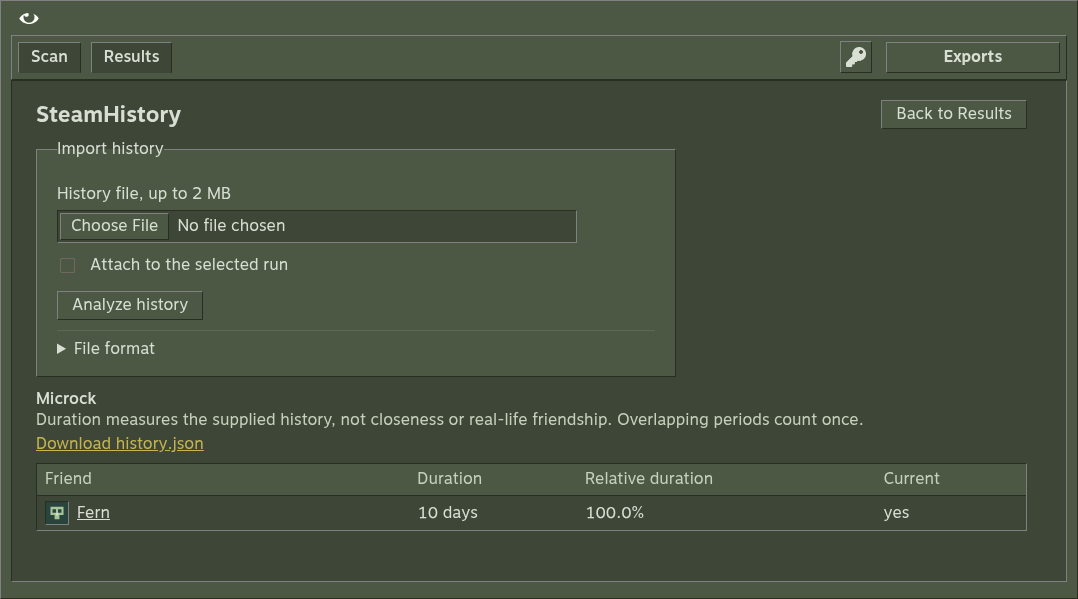
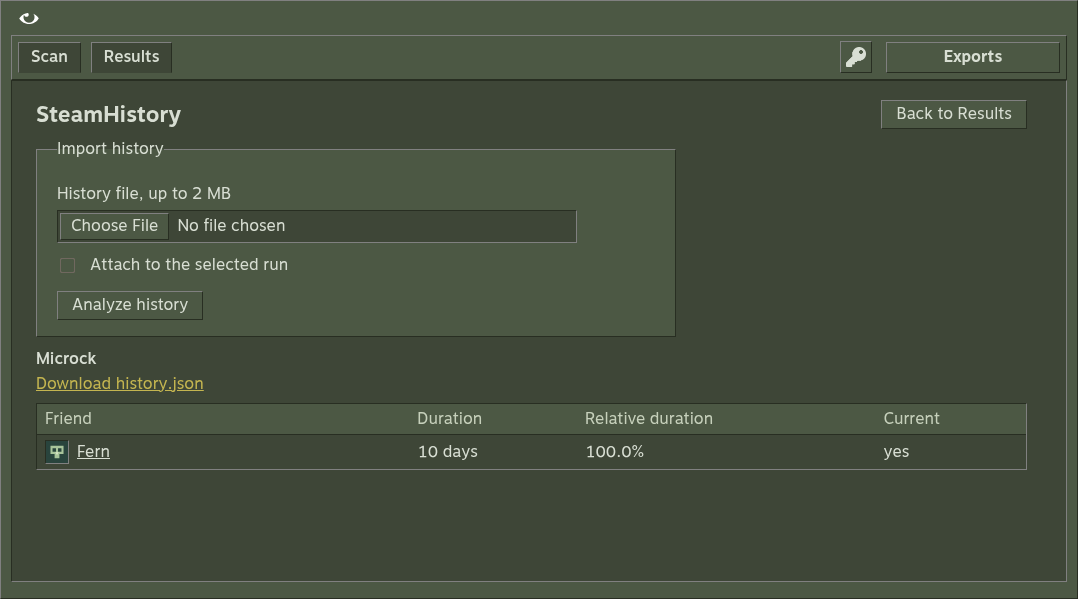
fix(ui): remove helper clutter and disclosure sections

diff --git a/ui/index.html b/ui/index.html
@@ -61,6 +61,7 @@
                 <label class="check"><input id="games" type="checkbox">Link via shared games</label>
               </div>
             </div>
+            <button id="open-scan-ranking" type="button" aria-haspopup="dialog">Ranking options</button>
             <button id="apply-settings" type="button" title="Save these settings as the default profile">Apply</button>
           </fieldset>
           <div class="panel mode-output">
@@ -74,19 +75,9 @@
             </fieldset>
             <section class="output-files" aria-label="Output files">
               <h2>Output</h2>
-              <p id="output-owner" class="output-owner"></p>
-              <div id="output-tree" class="output-tree" aria-describedby="output-owner"></div>
+              <div id="output-tree" class="output-tree"></div>
             </section>
           </div>
-      <details class="panel ranking-settings advanced-scan"><summary>Advanced scan options</summary>
-        <div class="weights">
-          <label>Hub percentile<input id="hub" type="number" min="0.5" max="1" step="0.001" value="0.99" required></label>
-          <label>Mutual weight<input id="mutualWeight" type="number" min="0" max="100" step="0.1" value="1" required></label>
-          <label>Jaccard weight<input id="jaccardWeight" type="number" min="0" max="100" step="0.1" value="1" required></label>
-          <label>Group weight<input id="groupWeight" type="number" min="0" max="100" step="0.1" value="0.5" required></label>
-          <label>Game weight<input id="gameWeight" type="number" min="0" max="100" step="0.1" value="0.5" required></label>
-        </div>
-      </details>
         </form>
         <aside class="rail" aria-label="Recent runs and saved settings">
           <div class="panel rail-recent"><div id="recent" aria-label="Recent runs"></div></div>
@@ -130,6 +121,26 @@
       <div class="dialog-actions"><button type="button" data-close="load-dialog">Cancel</button><button id="load-profile" type="button">Load</button></div>
     </dialog>
 
+    <dialog id="scan-ranking-dialog" aria-labelledby="scan-ranking-heading">
+      <form id="scan-ranking-form">
+        <h2 id="scan-ranking-heading">Ranking options</h2>
+        <div class="weights">
+          <label>Hub percentile<input id="hub" type="number" min="0.5" max="1" step="0.001" value="0.99" required></label>
+          <label>Mutual weight<input id="mutualWeight" type="number" min="0" max="100" step="0.1" value="1" required></label>
+          <label>Jaccard weight<input id="jaccardWeight" type="number" min="0" max="100" step="0.1" value="1" required></label>
+          <label>Group weight<input id="groupWeight" type="number" min="0" max="100" step="0.1" value="0.5" required></label>
+          <label>Game weight<input id="gameWeight" type="number" min="0" max="100" step="0.1" value="0.5" required></label>
+        </div>
+        <div class="dialog-actions"><button type="submit">Done</button></div>
+      </form>
+    </dialog>
+
+    <dialog id="run-info-dialog" aria-labelledby="run-info-heading">
+      <h2 id="run-info-heading">Run info</h2>
+      <p id="report-details"></p><div id="warnings"></div>
+      <div class="dialog-actions"><button type="button" data-close="run-info-dialog">Close</button></div>
+    </dialog>
+
     <section id="results-screen" class="screen" aria-label="Scan results" hidden>
       <div class="results-actions"><button id="toggle-runs" type="button" aria-expanded="true" aria-controls="run-library">Saved runs</button><button type="button" data-screen="history">Import history</button><button type="button" data-screen="scan">New scan</button></div>
       <section id="run-library" class="panel" aria-label="Saved runs">
@@ -147,25 +158,25 @@
         <div class="panel report-heading">
           <div class="report-identity"><img id="report-avatar" class="profile-avatar" src="/placeholder.jpg" width="40" height="40" alt="" referrerpolicy="no-referrer"><div><h1 id="report-name"></h1><a id="report-profile" target="_blank" rel="noreferrer"></a></div></div>
           <p id="report-status"></p>
+          <button id="open-run-info" type="button" aria-haspopup="dialog">Run info</button>
           <button id="resume-button" type="button" hidden>Resume run</button>
         </div>
         <dl id="coverage"></dl>
         <p id="coverage-warning" class="coverage-warning" role="status" hidden></p>
         <p id="report-error" role="alert" hidden></p>
-        <details id="report-notes"><summary>Run details</summary><p id="report-details"></p><div id="warnings"></div></details>
         <nav class="tabs" aria-label="Report views">
           <button type="button" data-view="friends" aria-current="page">Friends</button>
           <button type="button" data-view="network">Network</button>
           <button type="button" data-view="locations">Locations</button>
           <button type="button" data-view="exports">Exports</button>
+          <button type="button" data-view="ranking">Ranking</button>
           <button id="open-history" type="button" hidden>Attached history</button>
         </nav>
         <div class="report-workspace"><div class="report-views">
         <section id="friends-view" class="view">
           <div class="section-line"><h2>Ranked friends</h2><label class="search-label">Filter friends<input id="friend-search" type="search" placeholder="Name or Steam ID"></label></div>
-          <div class="table-wrap"><table><thead><tr><th scope="col">Friend</th><th scope="col">Evidence</th><th scope="col">Mutuals</th><th scope="col">Jaccard</th><th scope="col">Groups</th><th scope="col">Games</th><th scope="col">Friend list</th></tr></thead><tbody id="friend-rows"></tbody></table></div>
+          <div class="table-wrap"><table><thead><tr><th scope="col">Friend</th><th scope="col" title="Relative network evidence, not a friendship probability">Evidence</th><th scope="col">Mutuals</th><th scope="col">Jaccard</th><th scope="col">Groups</th><th scope="col">Games</th><th scope="col">Friend list</th></tr></thead><tbody id="friend-rows"></tbody></table></div>
           <p id="friend-empty" class="hint" hidden>No friends match this filter.</p>
-          <details><summary>About scores</summary><p class="hint">Relative evidence, not a friendship probability. Missing signals stay unknown.</p></details>
         </section>
         <section id="network-view" class="view" hidden>
           <div class="section-line"><h2>Friendship network</h2><label>Find profile<input id="network-search" type="search" placeholder="Name or Steam ID"></label><label>Edges<select id="edge-kind"><option value="friend">Friendships</option><option value="group">Shared groups</option><option value="all">All connections</option></select></label></div>
@@ -177,30 +188,29 @@
 
         </section>
         <section id="locations-view" class="view" hidden>
-          <h2>Self-reported location signals</h2>
+          <h2 title="Self-reported Steam codes among observed friends; they do not verify residence">Self-reported location signals</h2>
           <div class="table-wrap"><table><thead><tr><th scope="col">Country</th><th scope="col">State code</th><th scope="col">City ID</th><th scope="col">Friends</th><th scope="col">Signal share</th></tr></thead><tbody id="location-rows"></tbody></table></div>
           <p id="location-empty" class="hint" hidden>No admitted friends expose location fields.</p>
-          <details><summary>About locations</summary><p class="hint">Self-reported Steam codes, weighted among observed friends. They do not verify residence.</p></details>
         </section>
         <section id="exports-view" class="view" hidden>
           <h2>Run exports</h2>
           <div id="downloads" class="file-list"></div>
-          <details><summary>Gephi import</summary><p class="hint">Import nodes.csv as nodes and edges.csv as undirected edges. Filter Kind to friend for friendship centrality.</p></details>
         </section>
-        </div><aside id="profile-inspector" class="panel profile-inspector" aria-label="Profile details" hidden>
-          <div class="inspector-heading"><h2>Profile</h2><button id="close-inspector" type="button" aria-label="Close profile details">×</button></div>
-          <div class="inspector-identity"><img id="inspect-avatar" class="profile-avatar" width="48" height="48" alt="" referrerpolicy="no-referrer"><div><h2 id="inspect-name"></h2><a id="inspect-link" target="_blank" rel="noreferrer">Steam profile ↗</a></div></div>
-          <dl id="inspect-facts"></dl>
-        </aside></div>
-        <details id="report-ranking" class="panel ranking-settings"><summary>Ranking settings</summary>
+        <section id="ranking-view" class="view" hidden>
+          <h2 title="Recompute this run using its saved observations, without Steam requests">Ranking settings</h2>
           <form id="ranking-form"><div class="weights">
             <label>Hub percentile<input id="ranking-hub" type="number" min="0.5" max="1" step="0.001" required></label>
             <label>Mutual weight<input id="ranking-mutual" type="number" min="0" max="100" step="0.1" required></label>
             <label>Jaccard weight<input id="ranking-jaccard" type="number" min="0" max="100" step="0.1" required></label>
             <label>Group weight<input id="ranking-groups" type="number" min="0" max="100" step="0.1" required></label>
             <label>Game weight<input id="ranking-games" type="number" min="0" max="100" step="0.1" required></label>
-          </div><button id="save-ranking" type="submit">Save ranking</button><span class="hint">Uses saved observations.</span></form>
-        </details>
+          </div><button id="save-ranking" type="submit">Save ranking</button></form>
+        </section>
+        </div><aside id="profile-inspector" class="panel profile-inspector" aria-label="Profile details" hidden>
+          <div class="inspector-heading"><h2>Profile</h2><button id="close-inspector" type="button" aria-label="Close profile details">×</button></div>
+          <div class="inspector-identity"><img id="inspect-avatar" class="profile-avatar" width="48" height="48" alt="" referrerpolicy="no-referrer"><div><h2 id="inspect-name"></h2><a id="inspect-link" target="_blank" rel="noreferrer">Steam profile ↗</a></div></div>
+          <dl id="inspect-facts"></dl>
+        </aside></div>
       </section>
     </section>
 
@@ -211,14 +221,13 @@
           <legend>Import history</legend>
           <form id="history-form" class="stack-form">
             <label for="history-file">History file, up to 2 MB</label>
-            <input id="history-file" type="file" accept=".json,.ndjson,.jsonl,application/json" required>
+            <input id="history-file" type="file" accept=".json,.ndjson,.jsonl,application/json" title="Normalized JSON or NDJSON with steamID64, lastChecked and historic.friends" required>
             <label class="check"><input id="attach-history" type="checkbox">Attach to the selected run</label>
             <button type="submit">Analyze history</button>
           </form>
-          <details><summary>File format</summary><p class="hint">Normalized JSON or NDJSON with steamID64, lastChecked and historic.friends.</p></details>
         </fieldset>
         <div id="history-result" hidden>
-          <h2 id="history-name"></h2><p id="history-warning" class="hint"></p><a id="history-download" hidden>Download history.json</a>
+          <h2 id="history-name"></h2><a id="history-download" hidden>Download history.json</a>
           <div class="table-wrap"><table><thead><tr><th scope="col">Friend</th><th scope="col">Duration</th><th scope="col">Relative duration</th><th scope="col">Current</th></tr></thead><tbody id="history-rows"></tbody></table></div>
         </div>
       </section>
@@ -229,7 +238,6 @@
       <fieldset class="panel narrow-panel">
         <legend class="sr-only">API key</legend>
         <p id="key-status" class="hint" role="status">Checking key status</p>
-        <p id="connection" class="hint" role="status">Connecting</p>
         <form id="key-form" class="stack-form">
           <label for="key">Steam Web API key</label>
           <input id="key" type="password" minlength="32" maxlength="32" pattern="[a-fA-F0-9]{32}" autocomplete="off" required>

diff --git a/ui/style.css b/ui/style.css
@@ -28,7 +28,7 @@ a { color: var(--OffWhite); } a:hover { color: var(--Maize); }
 .hint { color: var(--Label); }
 .skip { position: fixed; top: -40px; left: 8px; z-index: 10; padding: 4px 8px; background: var(--GreenBG); }
 .skip:focus { top: 8px; }
-button, input, select, summary { font: inherit; }
+button, input, select { font: inherit; }
 button { min-height: 28px; padding: 3px 14px; color: var(--OffWhite); background: var(--GreenBG); border: 1px solid; border-color: var(--Outset); border-radius: 0; cursor: pointer; }
 button:hover { color: var(--Maize); }
 button:active { background: var(--DarkGreenBG); border-color: var(--Inset); }
@@ -42,8 +42,6 @@ input[type='file'] { max-width: 100%; padding: 2px; }
 input::file-selector-button { font: inherit; margin-right: 8px; padding: 2px 10px; color: var(--OffWhite); background: var(--GreenBG); border: 1px solid; border-color: var(--Outset); }
 .check { display: flex; align-items: center; gap: 12px; min-height: 32px; cursor: pointer; }
 .check:hover { color: var(--Maize); }
-summary { color: var(--OffWhite); cursor: pointer; }
-summary:hover { color: var(--Maize); }
 fieldset { min-width: 0; margin: 0; padding: 0; border: 0; }
 legend { margin-bottom: 8px; padding: 0; }
 .panel { min-width: 0; padding: 16px 20px; background: var(--GreenBG); border: 1px solid; border-color: var(--Outset); }
@@ -86,6 +84,7 @@ body.desktop main { flex: 1; min-height: 0; }
 #depth-buttons button[aria-pressed='true'] { color: var(--Maize); background: var(--DarkGreenBG); border-color: var(--Inset); }
 .info { display: inline-flex; align-items: center; justify-content: center; width: 14px; height: 14px; color: var(--GreenBG); background: var(--OffWhite); border-radius: 50%; font: bold 11px/1 Arial, sans-serif; vertical-align: middle; cursor: help; }
 #apply-settings { position: absolute; right: 16px; bottom: 14px; font-size: 14px; }
+#open-scan-ranking { position: absolute; left: 20px; bottom: 14px; font-size: 14px; }
 .mode-output { display: grid; grid-template-columns: 194px minmax(0, 1fr); gap: 26px; padding: 16px 20px 22px; }
 #output-mode { padding-top: 10px; }
 .segmented { display: grid; gap: 0; }
@@ -102,8 +101,6 @@ body.desktop main { flex: 1; min-height: 0; }
 .output-tree > a, .output-tree > span { display: block; text-decoration: none; white-space: pre-wrap; }
 .output-tree > a { color: var(--Maize); }
 .output-root { color: var(--OffWhite); margin-bottom: 2px; }
-.output-owner { font-size: 14px; margin-bottom: 4px; overflow-wrap: anywhere; }
-.output-owner:empty { display: none; }
 .target-panel { grid-area: target; padding: 7px 22px 18px; }
 .target-row { display: grid; grid-template-columns: auto minmax(0, 1fr) 24px; gap: 6px; align-items: center; margin-left: 0; margin-right: -3px; }
 .target-row label { font-size: 14px; }
@@ -131,12 +128,12 @@ body.desktop main { flex: 1; min-height: 0; }
 .profile-avatar { display: block; flex: none; width: 24px; height: 24px; object-fit: cover; background: var(--DarkGreenBG); border: 1px solid; border-color: var(--Inset); }
 .player-link, .report-identity { display: flex; align-items: center; gap: 8px; min-width: 0; }
 .report-identity > .profile-avatar { width: 40px; height: 40px; }
-details { margin-top: 10px; padding-top: 8px; border-top: 1px solid var(--Rule); }
-.weights { display: grid; grid-template-columns: repeat(auto-fill, minmax(120px, 1fr)); gap: 8px; margin-top: 8px; }
+.weights { display: grid; grid-template-columns: repeat(auto-fit, minmax(120px, 1fr)); gap: 8px; margin-top: 8px; }
 .weights label { display: grid; gap: 3px; }
-.ranking-settings { max-width: 640px; }
 dialog { max-width: calc(100% - 32px); padding: 18px; color: var(--OffWhite); background: var(--GreenBG); border: 1px solid; border-color: var(--Outset); }
 dialog::backdrop { background: #0008; }
+#scan-ranking-dialog { width: 720px; }
+#run-info-dialog { width: 640px; }
 dialog h2 { margin-bottom: 12px; }
 dialog select { max-width: 100%; min-width: 220px; }
 .dialog-actions { display: flex; justify-content: end; gap: 8px; margin-top: 16px; }
@@ -193,7 +190,6 @@ tbody tr:hover { background: var(--GreenBG); }
 #key { font-family: var(--Mono); }
 #history-result { margin-top: 12px; }
 #history-download { display: inline-block; margin: 4px 0 8px; color: var(--Maize); }
-#connection { color: var(--OffWhite); }
 
 
 .page-heading { display: flex; justify-content: space-between; align-items: center; gap: 12px; }
@@ -235,8 +231,6 @@ tbody tr:hover { background: var(--GreenBG); }
 }
 
 /* Analysis grows beyond the scan reference while retaining the same VGUI controls. */
-#scan-form .advanced-scan { margin: -12px 0 0; padding: 8px 14px; max-width: none; }
-.advanced-scan .weights { margin-bottom: 4px; }
 .results-actions { display: flex; gap: 8px; margin-bottom: 12px; }
 #run-library { margin-bottom: 12px; }
 #run-library .section-line label { font-size: 14px; }
@@ -261,7 +255,6 @@ tbody tr:hover { background: var(--GreenBG); }
 #inspect-facts dd { font-size: inherit; margin: 0; color: var(--OffWhite); text-align: right; overflow-wrap: anywhere; }
 .inspect-button { padding: 1px 6px; min-height: 22px; font-size: 12px; margin: 4px 0 0 32px; }
 #ranking-form > button { margin-top: 12px; margin-right: 10px; }
-#ranking-form > .hint { font-size: 13px; }
 #network-view .section-line { align-items: center; flex-wrap: wrap; }
 #network-view .section-line label { font-size: 13px; }
 #network-search { width: 170px; }

diff --git a/ui/app.ts b/ui/app.ts
@@ -178,7 +178,6 @@ function renderOutput() {
   heading.textContent = scan ? `outputs/${scan.id}/` : "outputs/<run-id>/";
   if (scan) heading.title = `${scan.players.find((p) => p.id === scan.seed)?.name ?? scan.seed} · ${new Date(scan.createdAt).toLocaleString()}`;
   tree.append(heading);
-  get("output-owner").textContent = scan ? scan.players.find((p) => p.id === scan.seed)?.name ?? scan.seed : "";
   const files = (selected?.history ? artifacts : downloads).filter((file) => file === "scan.json" || file === "run.log" || outputMode === "all" || (outputMode === "gephi" ? file.startsWith("gephi/") : !file.startsWith("gephi/")));
   for (const file of files) {
     const available = scan && (scan.status === "complete" || file === "scan.json" || file === "run.log" || file === "history.json");
@@ -218,7 +217,7 @@ function renderCoverageNotice() {
   const missing = report.coverage.unavailableLists; const skipped = report.coverage.skippedLists;
   const partial = scan.status !== "complete" || scan.truncated || missing > 0 || skipped > 0;
   const warning = get("coverage-warning"); warning.hidden = !partial;
-  warning.textContent = `Partial results${scan.truncated ? " · node cap reached" : ""} · ${skipped} skipped · ${missing} unavailable friend lists. Counts describe observed data.`;
+  warning.textContent = `Partial results${scan.truncated ? " · node cap reached" : ""} · ${skipped} skipped · ${missing} unavailable friend lists`;
   get("open-history").hidden = !selected.history;
 }
 function renderRanking() {
@@ -289,7 +288,7 @@ function renderRuns() {
 }
 function renderHistory(report: HistoryReport, runId: string | null) {
   get("history-result").hidden = false; get("history-name").textContent = report.profile.name ?? report.profile.steamID64;
-  get("history-warning").textContent = report.warning;
+  get("history-name").title = report.warning;
   const link = get("history-download"); link.hidden = !runId; if (runId) link.setAttribute("href", downloadLink(runId, "history.json").href);
   const rows = get("history-rows"); rows.replaceChildren();
   const players = new Map(selected?.scan.players.map((player) => [player.id, player]));
@@ -367,7 +366,6 @@ async function refresh() {
       const settings = await api("/api/profiles/default", Settings);
       if (version === settingsVersion) applySettings(settings);
     }
-    get("connection").textContent = "Local session";
     renderProgress(currentState);
     renderRecent(); renderRuns();
     const signature = JSON.stringify(currentState.profiles);
@@ -386,7 +384,7 @@ async function refresh() {
       if (job.error) notice(job.error);
     }
   } catch (error) {
-    get("connection").textContent = "Disconnected";
+    get("key-status").textContent = "Disconnected";
     notice(error instanceof Error ? error.message : "Cannot reach the local server.");
   } finally {
     refreshing = false; clearTimeout(timer); timer = setTimeout(() => void refresh(), currentState?.job.status === "running" ? 1500 : 10000);
@@ -410,7 +408,7 @@ get("output-mode").addEventListener("change", (event) => {
   if (!(event.target instanceof HTMLInputElement)) return;
   outputMode = Schema.decodeUnknownSync(OutputMode)(event.target.value); renderOutput();
 });
-get("scan-form").addEventListener("input", () => { settingsVersion++; get("estimate-result").textContent = ""; });
+for (const form of ["scan-form", "scan-ranking-form"]) get(form).addEventListener("input", () => { settingsVersion++; get("estimate-result").textContent = ""; });
 inputs.target.addEventListener("input", () => { preview = null; previewTarget = ""; get("estimate-result").textContent = ""; renderTarget(); });
 for (const button of document.querySelectorAll<HTMLButtonElement>("[data-depth]")) button.addEventListener("click", () => {
   settingsVersion++; inputs.depth.value = button.dataset.depth ?? "2"; renderDepth(); get("estimate-result").textContent = "";
@@ -459,6 +457,9 @@ buttons("output-folder").addEventListener("click", () => {
 });
 buttons("save-settings").addEventListener("click", () => dialog("save-dialog").showModal());
 buttons("open-settings").addEventListener("click", () => dialog("load-dialog").showModal());
+buttons("open-scan-ranking").addEventListener("click", () => dialog("scan-ranking-dialog").showModal());
+get("scan-ranking-form").addEventListener("submit", (event) => { event.preventDefault(); dialog("scan-ranking-dialog").close(); });
+buttons("open-run-info").addEventListener("click", () => dialog("run-info-dialog").showModal());
 for (const button of document.querySelectorAll<HTMLElement>("[data-close]")) button.addEventListener("click", () => dialog(button.dataset.close ?? "").close());
 buttons("cancel-button").addEventListener("click", () => task(async () => { await api("/api/cancel", Contracts.Ok, {}); await refresh(); }));
 buttons("resume-button").addEventListener("click", () => task(async () => { if (selected) { await api("/api/resume", Contracts.Ok, { id: selected.scan.id }); await refresh(); } }));

diff --git a/docs/product-contract.md b/docs/product-contract.md
@@ -5,7 +5,7 @@ Vapora runs locally on Node.js 24 and uses TypeScript and Effect 4. The Python i
 ## Required behavior
 
 - Accept individual SteamID64, SteamID2, SteamID3, Steam community profile URLs, and vanity names. `/id/` URL segments always identify vanity names, including numeric names; `/profiles/` segments identify SteamID64. Reject other hosts, malformed IDs, and unsupported account types before scanning.
-- Offer validated manual configuration and named saved profiles. Keep inner/community shortcuts in the CLI. In the GUI, Outputs: All / Report / Gephi selects the visible output files and never overwrites scan settings or limits which files are generated. Apply saves the default settings profile; saved settings include the private-profile policy. Put ranking defaults under advanced scan options, separate from API-key setup.
+- Offer validated manual configuration and named saved profiles. Keep inner/community shortcuts in the CLI. In the GUI, Outputs: All / Report / Gephi selects the visible output files and never overwrites scan settings or limits which files are generated. Apply saves the default settings profile; saved settings include the private-profile policy. Put ranking defaults in a Ranking options dialog opened from scan parameters, separate from API-key setup.
 - Scan public friendship networks breadth first to depth 1-5 and the hard node cap. Depth 1 includes the seed and its direct friends. Query admitted boundary nodes for analysis, without admitting nodes beyond the limit.
 - Offer an explicit Skip private profiles checkbox, unchecked by default. Check summaries before collecting a frontier account's own observations. With the policy enabled, retain known private accounts and incoming friendship evidence, but skip their friend-list, ban, group and game requests. Persist skipped statuses and the policy for resume and saved profiles. Missing summary visibility is unavailable, not proof of privacy. A public profile with a private friend list remains eligible for other enabled observations. A private seed produces a completed skipped result.
 - Distinguish private/unavailable friend lists from empty public lists. Keep admitted profiles even when private. A bad API key, exhausted retry, or malformed provider payload must fail visibly.
@@ -22,13 +22,13 @@ Vapora runs locally on Node.js 24 and uses TypeScript and Effect 4. The Python i
 - Provide a CLI with scan, estimate, resume, history, analyze, serve, profiles, and recent-run operations. Support --skip-private and depth 1-5. Estimates respect the private-profile policy and are labeled sampling estimates bounded by the cap. Estimates at depth 3-5 explicitly describe first-two-level coverage rather than predicting the full selected depth.
 - Provide a working local browser UI for configuration, estimation, scanning, cancellation, resume, reports, graph exploration, imports, saved profiles, and export downloads. Render names as text, support keyboard navigation, show actual progress, and retain UI state through polling.
 - Polish the existing `feature/gui-and-analysis` composition: compact toolbar, scan parameters above mode/output on the left, and target/profile/actions on the right. Use its classic Steam olive surfaces, inset fields, beveled controls, compact type, and mustard selection accents. Use classic VGUI page tabs that join their panels with an open bottom edge, and full 1px bevels on action buttons. Bundle the original Motiva Sans regular, medium and bold files and original checkbox bitmaps. Use 16px scan labels and a 210px target avatar at the 1078px desktop width. Put repeated identifiers and run timestamps in profile links, tooltips and run details. Show connection status behind the toolbar key button. Keep one stylesheet, visible focus and scrollbars, and no looping animation.
-- Size the Steam window to its content, with a compact green toolbar rather than a black banner. Keep recent-run lists bounded, avoid stretching empty panels, and put format help and method notes behind native disclosures. Keep run failures visible.
+- Size the Steam window to its content, with a compact green toolbar rather than a black banner. Keep recent-run lists bounded and avoid stretching empty panels. Omit repeated helper text and native disclosure sections; keep method and file-format documentation in the README and short contextual tooltips. Keep run failures visible.
 - Use `assets/vapora.svg`, cropped to the original white eye only, without its outer circle, with a tightly cropped eye-shaped viewBox and a 20x11px toolbar size. Blue regions must be transparent so the green toolbar shows through. The SVG contains vector paths, not an embedded raster or runtime font. Preserve the source PNG and existing favicon. Bundle local visual assets and serve them through an explicit allowlist. Resolve a target only through an explicit check-button action using Steam summaries; this does not create a scan or fetch friend lists. No lookup runs while typing.
 - Provide two main tabs, Scan and Results. Results includes a searchable saved-run list with names, avatars, timestamps, node counts and statuses; the avatar rail remains a shortcut. Open History from Results even when no run is selected, and connection settings from the key button. Switching views preserves inputs and reports; opening a saved or completed run shows Results unless the user navigates elsewhere while it loads. Progress and cancellation stay accessible in every view. Stack the layout at narrow widths without page-level horizontal overflow.
-- Show coverage counts for skipped and unavailable lists and a visible partial-results notice for truncation or missing observations. Keep detailed method notes in disclosures.
+- Show coverage counts for skipped and unavailable lists and a concise visible partial-results notice for truncation or missing observations. Open run metadata and detailed warnings in a Run info dialog.
 - Provide a profile inspector from ranked friends and graph nodes with avatar, Steam link, collection depth, privacy, ban records, observation availability, degree, betweenness, community and hub status. Distinguish missing ban data from confirmed records.
 - Explore the graph with profile search, community legend, focusable nodes and zoom/reset controls. Arrange communities in separate clusters and show selected-profile friendships without hiding the rest of the profile list.
-- Completed saved runs can be reranked through an explicit Save ranking action without a Steam key or provider calls. Validate ranking weights and hub percentile, preserve all collected observations and collection settings, and persist the new ranking in the canonical checkpoint and regenerated exports. Reject changes while a Steam or analysis operation is active and reject incomplete runs.
+- Completed saved runs can be reranked from the Ranking report tab through an explicit Save ranking action without a Steam key or provider calls. Validate ranking weights and hub percentile, preserve all collected observations and collection settings, and persist the new ranking in the canonical checkpoint and regenerated exports. Reject changes while a Steam or analysis operation is active and reject incomplete runs.
 - Reopen an attached history report from its saved run and expose history.json in exports. Standalone history imports remain available without a selected run.
 - Give each scan/resume operation a unique operation ID, independent of its run ID and server instance. Process each terminal result once, including repeated failures before creating a run and repeated cancellation of the same run.
 - Show actionable failure messages in the browser and saved report; keep stack traces in the run log.

diff --git a/docs/verification.md b/docs/verification.md
@@ -1,6 +1,6 @@
 # Verification
 
-The Scan workspace uses the supplied 1078 x 599 reference and the original `feature/gui-and-analysis` branch at `9ad203818f65f9716d56611e97ad37cf6a3b8a7f` as its foundation: Parameters above Outputs/Output, a five-slot avatar rail with save/load controls, and Target with stacked actions. Advanced scan options sit below these panels. Results adds run management and analysis tools. The toolbar has Scan and Results tabs, a key button, and browser exports or a native folder action.
+The Scan workspace uses the supplied 1078 x 599 reference and the original `feature/gui-and-analysis` branch at `9ad203818f65f9716d56611e97ad37cf6a3b8a7f` as its foundation: Parameters above Outputs/Output, a five-slot avatar rail with save/load controls, and Target with stacked actions. Ranking options open in a dialog from Parameters. Results adds run management and analysis tools, including a Ranking tab and Run info dialog. The toolbar has Scan and Results tabs, a key button, and browser exports or a native folder action. The UI has no native disclosure sections or repeated explanatory subtext; coverage failures remain visible.
 
 The renderer bundles the original Motiva Sans regular, medium and bold fonts, checkbox bitmaps, key, save and load assets. Chrome's platform-font inspection confirmed that scan labels actually render with the bundled Motiva Sans. The UI uses the original olive palette, joined tabs, square beveled buttons, inset fields and mustard selection accents. There is no looping animation.
 
@@ -21,7 +21,7 @@ At the reference viewport, the parameters start at (36, 100) and measure 655 x 1
 
 ## Browser and desktop checks
 
-Chrome drove the real browser UI against the local Steam HTTP fixture. It checked target lookup, a completed scan, loaded avatars, avatar clearing on target edits, depth 5, the skip checkbox, default settings across reload, named-profile save/load dialogs, depth-5 and private-target estimates, visible lookup errors, output filtering without changing scan settings, and visible keyboard focus. It also checked run search/status filters, visible coverage warnings, profile inspection, graph search and keyboard selection, zoom without rebuilding nodes, offline reranking across reload, standalone history import, attachment and reopening. Scan, Results, History and the open inspector/network had no page-level horizontal overflow at 320, 390, 560, 720, 940, 1078 and 1280px.
+Chrome drove the real browser UI against the local Steam HTTP fixture. It checked target lookup, a completed scan, loaded avatars, avatar clearing on target edits, depth 5, the skip checkbox, default settings across reload, named-profile save/load dialogs, depth-5 and private-target estimates, visible lookup errors, output filtering without changing scan settings, and visible keyboard focus. It also checked run search/status filters, visible coverage warnings, profile inspection, graph search and keyboard selection, zoom without rebuilding nodes, offline reranking across reload, standalone history import, attachment and reopening. Ranking options saved through Apply and reload; pressing Enter in that dialog closed it without starting a scan. Run info retained detailed warnings and closed with Escape. Scan, Results, History, Ranking, the open inspector/network and both dialogs had no page-level horizontal overflow at 320, 390, 560, 720, 940, 1078 and 1280px.
 
 The Linux Electron app was launched with a new, initially nonexistent data directory. Its isolated renderer completed a lookup and scan. The actual native window maximized, restored to 1078 x 599px, minimized and closed with exit code 0. Open output folder launched Thunar for the outputs root and accepted the selected run after navigation. The renderer had no Node `require` access.
 
@@ -36,7 +36,10 @@ All current captures were opened and visually inspected:
 - [Community graph](screenshots/network.png)
 - [Saved runs](screenshots/runs.png)
 - [Attached history](screenshots/history.png)
+- [Scan ranking options](screenshots/ranking-options.png)
+- [Saved-run ranking](screenshots/ranking.png)
+- [Run info](screenshots/run-info.png)
 
-The screenshots use distinct sample avatars from the HTTP fixture. They are not live Steam accounts. Authenticated live Steam calls and native Windows/macOS launches were not tested locally. CI verifies the locked install, types, lint and tests on Linux, Windows and macOS; that does not establish native desktop behavior on those systems.
+The screenshots use distinct sample avatars from the HTTP fixture. They are not live Steam accounts. No authenticated live Steam scan has been run; the current environment and project have no configured Steam API key. Native Windows/macOS launches were not tested locally. CI verifies the locked install, types, lint and tests on Linux, Windows and macOS; that does not establish native desktop behavior on those systems.
 
 Current saved settings require `skipPrivate`; checkpoints also require a nullable avatar field. Earlier local files remain untouched and are reported as invalid. Start a fresh scan or explicitly save a new settings profile; there is no automatic migration.

diff --git a/README.md b/README.md
@@ -22,9 +22,9 @@ Run it on a trusted local machine. Native programs and other accounts on that ma
 
 Get a [Steam Web API key](https://steamcommunity.com/dev/apikey). Open **API key** and enter it for the current server session, or copy `.env.example` to `.env` and set `STEAM_API_KEY`. Environment keys also work. The browser does not store keys, and keys never appear in exports.
 
-In **Scan**, choose a target, depth, node cap and optional signals, then Analyze. The check button looks up the target name and avatar without creating a run. **Apply** saves the default settings for the next launch. **Outputs: All / Report / Gephi** filters the output tree; every completed scan still produces all exports. Advanced scan options hold ranking defaults. Use the toolbar key button for the connection. Switching views keeps your inputs; active progress and cancellation remain visible across views.
+In **Scan**, choose a target, depth, node cap and optional signals, then Analyze. The check button looks up the target name and avatar without creating a run. **Apply** saves the default settings for the next launch. **Outputs: All / Report / Gephi** filters the output tree; every completed scan still produces all exports. **Ranking options** opens the ranking defaults. Use the toolbar key button for the connection. Switching views keeps your inputs; active progress and cancellation remain visible across views.
 
-**Results** includes a searchable saved-run list, coverage warnings, profile inspection and a community-clustered graph. **Ranking settings** lets you change weights and save a new analysis of a completed run without a key or new Steam requests. **Import history** works with or without a selected run; attached history reopens with its matching run.
+**Results** includes a searchable saved-run list, coverage warnings, profile inspection and a community-clustered graph. The **Ranking** tab lets you change weights and save a new analysis of a completed run without a key or new Steam requests. **Run info** shows metadata and detailed warnings. **Import history** works with or without a selected run; attached history reopens with its matching run.
 
 Targets can be SteamID64, SteamID2, `[U:1:ID]`, a Steam profile URL, or a vanity name. SteamID64 values stay strings to avoid precision loss.
 
